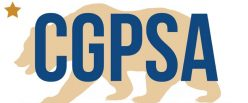
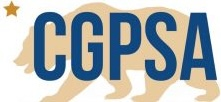
edit community service format

diff --git a/assets/css/style.scss b/assets/css/style.scss
@@ -67,8 +67,8 @@ hr.solid {
         color:black; 
         width : 100%; 
         font-size : 20px;
-        font-weight: 550; 
-        margin-bottom:5px; 
+        font-weight: 580; 
+        margin-bottom:8px; 
         margin-top:40px;
         font-family:Arial, Helvetica, sans-serif;
         text-align: left

diff --git a/index.md b/index.md
@@ -3,7 +3,7 @@ layout: default
 ---
 <p align="justify" style="line-height: 160%;color:black;width:100%;" class="p2">
 Nice to meet you 😃 <br>
-I am Linda, a 📸camera engineer working on sensing systems for ✈flying robots and 🤖humanoid robots. I've developed camera modules, lenses, depth sensors, illumination LEDs and thermal sensors that enable the entire robotic sensing systems to perceive and interact with the world around them. Before joining the industry, I earned my 👩🎓PhD in Electrical Engineering and Computer Sciences from UC Berkeley, where I was advised by Prof. Laura Waller. My PhD research focused on 🔬computational optics—a multidisciplinary field combining optical hardware, physical modeling, optimization algorithms, and machine learning.
+I am Linda, a 📸camera engineer working on sensing systems for ✈flying robots and 🤖humanoid robots. I've developed camera modules, lenses, depth sensors, illumination LEDs and thermal sensors that enable the entire robotic sensing systems to perceive and interact with the world around them. Before joining the industry, I earned my 👩🎓PhD in <a href="https://eecs.berkeley.edu/">Electrical Engineering and Computer Sciences from UC Berkeley</a>, where I was advised by <a href="https://www.laurawaller.com/">Prof. Laura Waller</a>. My PhD research focused on 🔬<a href="https://search.proquest.com/openview/e9916003fea6976f7d7cf963b34a5bd5/1?pq-origsite=gscholar&cbl=18750&diss=y">computational optics</a>—a multidisciplinary field combining optical hardware, physical modeling, optimization algorithms, and machine learning.
 </p>
 
 <div class="title">
@@ -93,7 +93,7 @@ Coming soon
 
 <div class="container">
   <div class="image-section">
-    <img style="margin-top: 20px" src="/assets/img/robotsalute.gif" alt="microfluid beads">
+    <img style="margin-top: 20px" src="/assets/img/robotsalute.gif" alt="Robot Cafe">
   </div>
   <div class="text-section">
     <p class="company"> Google X, the moonshot factory
@@ -119,7 +119,7 @@ Coming soon
 
 <div class="container">
   <div class="image-section">
-    <img style="margin-top: 20px" src="/assets/img/Silica.gif" alt="microfluid beads">
+    <img style="margin-top: 20px" src="/assets/img/Silica.gif" alt="Project Silica">
   </div>
   <div class="text-section">
     <p class="company"> Microsoft Research
@@ -147,31 +147,57 @@ Coming soon
   Community Services, Teaching and Mentoring
 </div>
 <hr class="solid">
-### Chinese Graduate and Postdoctoral Scholars Association at UC Berkeley (<a href="https://cgpsa.berkeley.edu" target="_blank">CGPSA</a>)
-<ul><table>
-  <tr>
-    <td style="width:20%;border:none;"> <img src="/assets/img/cgpsa.jpeg" height="50"  alt="CGPSA Logo"> </td>
-    <td style="border:none;">President, 2018 -- 2019</td>
-   </tr> 
-</table></ul>
 
-### Women in Computer Science and Electrical Engineering (<a href="https://inst.eecs.berkeley.edu/~wicse/" target="_blank">WICSE</a>)
-<ul><table>
-  <tr>
-    <td style="width:20%;border:none;"> <img src="/assets/img/wicse.png" height="30"  alt="WICSE Logo"> </td>
-    <td style="border:none;">Officer, 2017 -- 2018</td>
-   </tr> 
-</table></ul>
+<div class="container">
+  <div class="image-section">
+    <center><img style="margin-top: 20px;width:80%" src="/assets/img/cgpsa.jpeg" alt="CGPSA Logo"></center>
+  </div>
+  <div class="text-section">
+    <p class="company"> Chinese Graduate and Postdoctoral Scholars Association at UC Berkeley (<a href="https://cgpsa.berkeley.edu" target="_blank">CGPSA</a>)
+    </p>
+    <p class="authorlist">President <br>
+    2018 – 2019 <br> 
+    </p>
+    <span style="font-size:13px;color:black;margin-bottom:0;">
+      <a href="https://mp.weixin.qq.com/s/vXJrhuH5zcXqzmqaLF4HlA" target="_blank"> [2019 Chinese New Year]</a> 
+      <a href="https://mp.weixin.qq.com/s/7G6LVYDL5VWqT2-4oZDlHg" target="_blank"> [2018 New Student Reception]</a> <br>
+      <a href="https://mp.weixin.qq.com/s/aMoLpG_hpU5v2ZrdL6sSKA" target="_blank"> [2018 Fall Hiking] </a> 
+      <a href="https://mp.weixin.qq.com/s/iLeoFNW1suosG4GqZziUOQ" target="_blank"> [2019 Spring Hiking] </a> 
+    <br>
+    </span> 
+    <br>
+  </div>
+</div>
 
-### Berkeley <a href="https://eecs16a.org" target="_blank">EECS16A</a>: Designing Informative Devices and Systems 
-<ul><table>
-  <tr>
-    <td style="width:20%;border:none;"><img src="/assets/img/eecs16a.png" height="80"  alt="EECS16A Course Logo"></td>
-    <td style="border:none;">Head Content TA, Spring 2019 <BR> Content TA, Fall 2021</td>
-   </tr> 
-</table></ul>
+<div class="container">
+  <div class="image-section">
+    <center><img style="margin-top: 20px;width:80%" src="/assets/img/wicse.png" alt="WICSE Logo"></center>
+  </div>
+  <div class="text-section">
+    <p class="company"> Women in Computer Science and Electrical Engineering (<a href="https://inst.eecs.berkeley.edu/~wicse/" target="_blank">WICSE</a>)
+    </p>
+    <p class="authorlist">Officer <br>
+    2017 - 2018 <br> 
+    </p>
+    <span style="font-size:13px;color:black;margin-bottom:0;">
+      <a href="https://newsletter.eecs.berkeley.edu/2020/09/wicse-history/" target="_blank"> [WICSE History]</a> 
+    <br>
+    </span> 
+    <br>
+  </div>
+</div>
 
-
-### Undergraduate Research Mentor
-Mentored 5 undergrads through "Research Experiences for Undergraduates" programs.
+<div class="container">
+  <div class="image-section">
+    <center><img style="margin-top: 10px; width:50%;" src="/assets/img/eecs16a.png" alt="EECS16A Course Logo"></center>
+  </div>
+  <div class="text-section">
+    <p class="company"> <a href="https://eecs16a.org" target="_blank">EECS16A</a>: Designing Informative Devices and Systems 
+    </p>
+    <p class="authorlist">Spring 2019: Head Content Teaching Assistant <br>
+    Fall 2021: Content Teaching Assistant <br> 
+    </p>
+    <br>
+  </div>
+</div>
 
